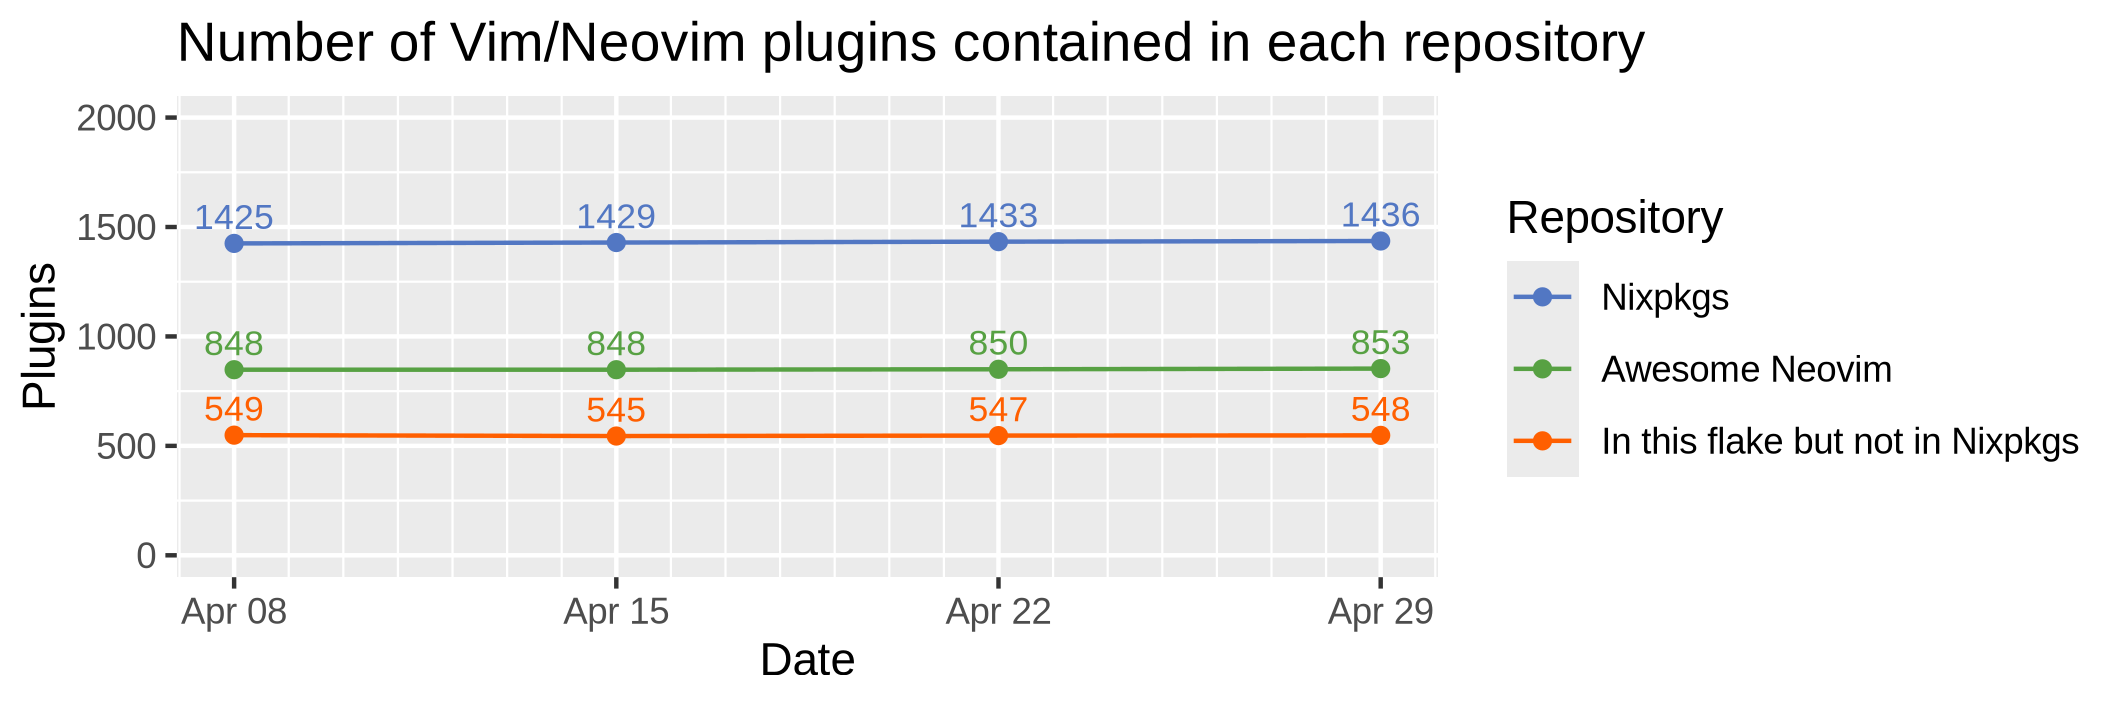
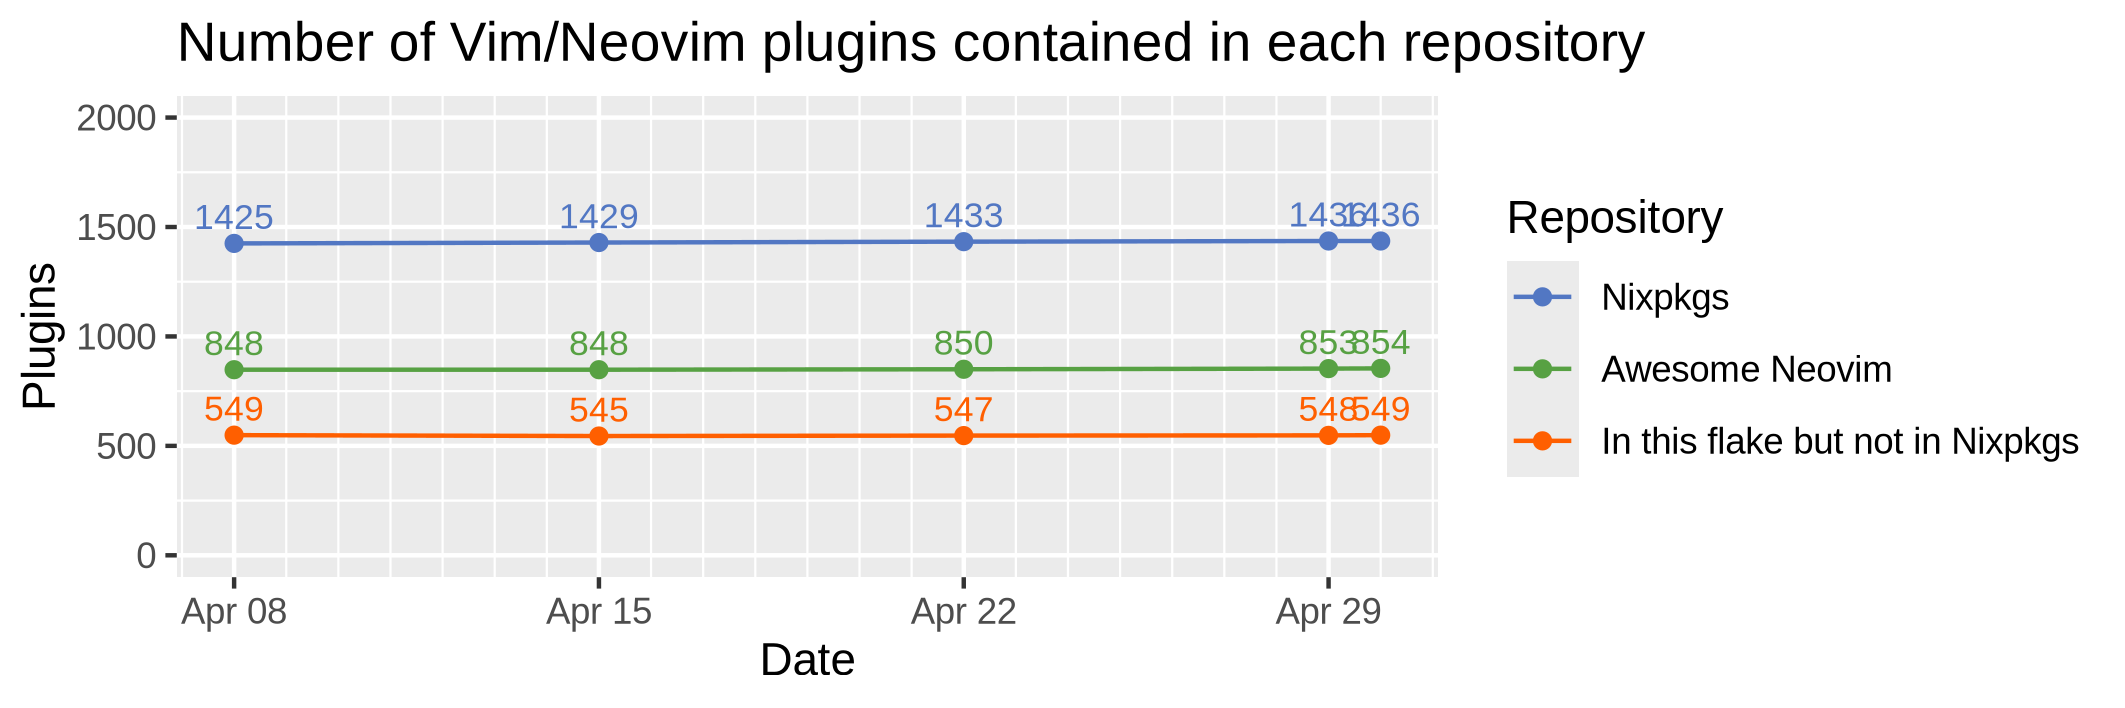
auto: update vim plugins

diff --git a/README.md b/README.md
@@ -8,7 +8,7 @@ Nix flake of Awesome Neovim plugins.
 
 [b1]: https://img.shields.io/github/actions/workflow/status/m15a/flake-awesome-neovim-plugins/check.yml?style=flat-square&logo=github&label=CI
 [b2]: https://github.com/m15a/flake-awesome-neovim-plugins/actions/workflows/check.yml
-[b3]: https://img.shields.io/badge/Awesome_Neovim_plugins-853-57A143?style=flat-square
+[b3]: https://img.shields.io/badge/Awesome_Neovim_plugins-854-57A143?style=flat-square
 [b4]: https://img.shields.io/endpoint?url=https://flakehub.com/f/m15a/flake-awesome-neovim-plugins/badge&style=flat-square
 [b5]: https://flakehub.com/flake/m15a/flake-awesome-neovim-plugins
 
